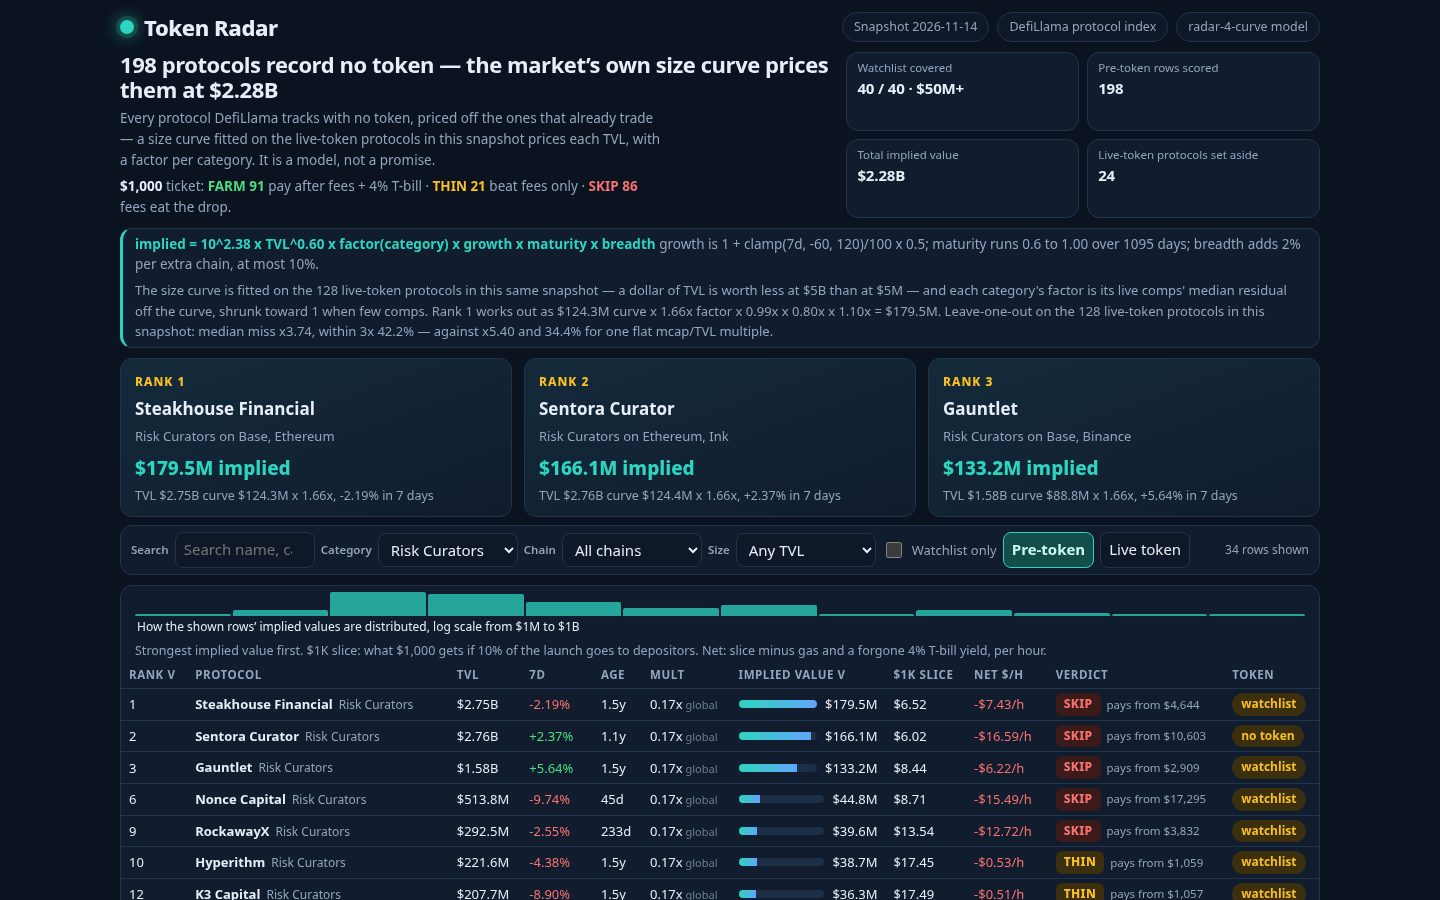
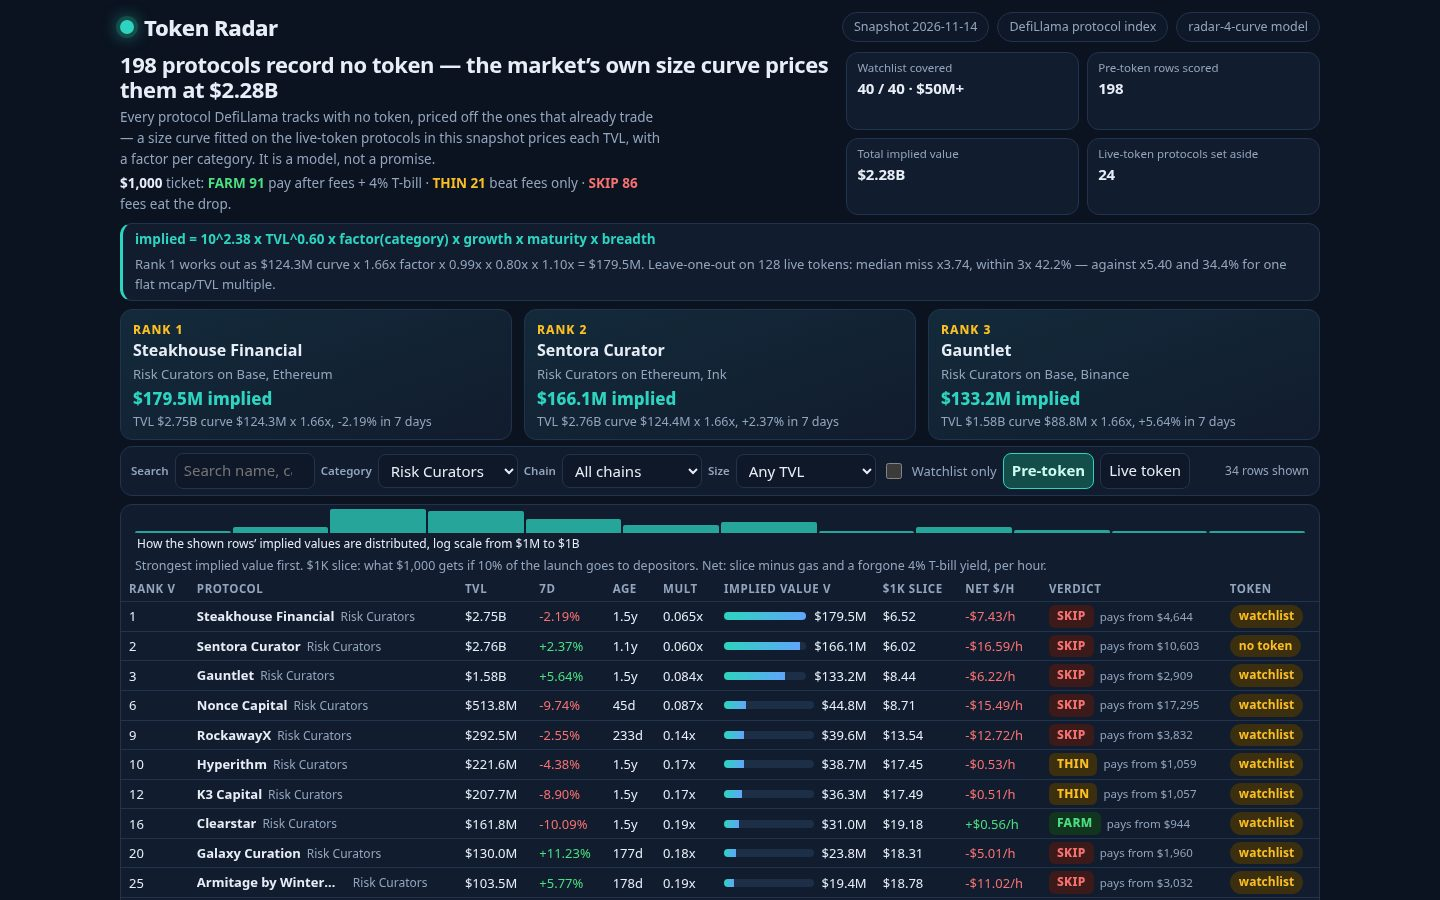
Token Radar v3 visuals (slot3-judge): compact board — live implied/TVL MULT, shorter cards, 1-line formula bar (10 rows visible)

diff --git a/dashboard/app.css b/dashboard/app.css
@@ -12,8 +12,8 @@ a{color:var(--teal)}
 .top-meta{display:flex;gap:8px;flex-wrap:wrap}
 .pill{border:1px solid var(--line);border-radius:999px;padding:4px 11px;color:var(--muted);font-size:12.5px;background:var(--panel2)}
 .lede{display:grid;grid-template-columns:1.5fr 1fr;gap:16px;padding:6px 0 2px}
-.lede h1{font-size:22px;line-height:1.15;margin:0 0 5px;letter-spacing:-.02em}
-.lede p{margin:0 0 6px;color:var(--muted);max-width:70ch;font-size:13.5px}
+.lede h1{font-size:22px;line-height:1.15;margin:0 0 4px;letter-spacing:-.02em}
+.lede p{margin:0 0 4px;color:var(--muted);max-width:70ch;font-size:13.5px}
 .lede p:last-child{margin-bottom:0}
 .lede p b{color:var(--ink)}
 .verdict-line{font-size:13px}
@@ -25,20 +25,19 @@ a{color:var(--teal)}
 .fact span{display:block;color:var(--muted);font-size:11.5px}
 .fact b{font-size:15px;letter-spacing:-.01em}
 .fact b em{font-style:normal;color:var(--teal);font-size:14px}
-.formula-bar{background:var(--panel);border:1px solid var(--line);border-left:3px solid var(--teal);border-radius:var(--radius);padding:6px 12px;margin:8px 0 2px}
+.formula-bar{background:var(--panel);border:1px solid var(--line);border-left:3px solid var(--teal);border-radius:var(--radius);padding:6px 12px;margin:6px 0 2px}
 .formula-line{font-size:13.5px;line-height:1.45}
 .formula-line b{color:var(--teal)}
-.formula-line span{color:var(--muted)}
-.formula-bar p{margin:6px 0 0;color:var(--muted);font-size:13px}
-.spot{display:grid;grid-template-columns:repeat(3,1fr);gap:12px;margin:10px 0 2px}
-.spot-card{background:linear-gradient(160deg,#132a3a,#111c2e);border:1px solid var(--line);border-radius:var(--radius);padding:10px 14px;cursor:pointer;text-align:left;color:var(--ink);font:inherit}
+.formula-bar p{margin:4px 0 0;color:var(--muted);font-size:13px}
+.spot{display:grid;grid-template-columns:repeat(3,1fr);gap:12px;margin:8px 0 2px}
+.spot-card{background:linear-gradient(160deg,#132a3a,#111c2e);border:1px solid var(--line);border-radius:var(--radius);padding:8px 12px;cursor:pointer;text-align:left;color:var(--ink);font:inherit;line-height:1.35}
 .spot-card:hover{border-color:var(--teal)}
 .spot-card .rank{color:var(--amber);font-weight:800;font-size:12px;text-transform:uppercase;letter-spacing:.08em}
-.spot-card h3{margin:4px 0 2px;font-size:17px}
+.spot-card h3{margin:2px 0 1px;font-size:16px}
 .spot-card .sub{color:var(--muted);font-size:13px}
-.spot-card .val{font-size:19px;font-weight:800;margin-top:6px;color:var(--teal)}
-.spot-card .why{color:var(--muted);font-size:12.5px;margin-top:2px}
-.controls{display:flex;gap:6px;align-items:center;flex-wrap:wrap;background:var(--panel);border:1px solid var(--line);border-radius:var(--radius);padding:6px 10px;margin:8px 0}
+.spot-card .val{font-size:17px;font-weight:800;margin-top:4px;color:var(--teal)}
+.spot-card .why{color:var(--muted);font-size:12.5px;margin-top:1px}
+.controls{display:flex;gap:6px;align-items:center;flex-wrap:wrap;background:var(--panel);border:1px solid var(--line);border-radius:var(--radius);padding:6px 10px;margin:6px 0}
 .field{display:flex;flex-direction:row;align-items:center;gap:6px}
 .field label,.field .sub{font-size:11.5px;color:var(--muted);font-weight:600;white-space:nowrap}
 .field input,.field select{background:var(--panel2);border:1px solid var(--line);color:var(--ink);border-radius:8px;padding:5px 8px;font:inherit;min-width:0}
@@ -51,11 +50,11 @@ a{color:var(--teal)}
 .check{display:flex;align-items:center;gap:7px;color:var(--muted);font-size:13px;cursor:pointer;white-space:nowrap}
 .check input{accent-color:var(--teal);width:16px;height:16px}
 .count{margin-left:auto;color:var(--muted);font-size:12px;align-self:center}
-.panel{background:var(--panel);border:1px solid var(--line);border-radius:var(--radius);margin:10px 0}
+.panel{background:var(--panel);border:1px solid var(--line);border-radius:var(--radius);margin:8px 0}
 .table-wrap{overflow-x:auto}
 table{width:100%;border-collapse:collapse;font-size:13px}
-caption{text-align:left;padding:6px 14px 2px;color:var(--muted);font-size:12.5px;line-height:1.45}
-th,td{padding:4px 8px;text-align:left;border-top:1px solid var(--line);vertical-align:middle}
+caption{text-align:left;padding:4px 14px 2px;color:var(--muted);font-size:12.5px;line-height:1.45}
+th,td{padding:3px 8px;text-align:left;border-top:1px solid var(--line);vertical-align:middle}
 thead th{border-top:0;color:var(--muted);font-size:11.5px;text-transform:uppercase;letter-spacing:.05em;white-space:nowrap}
 thead th button{background:none;border:0;color:inherit;font:inherit;cursor:pointer;padding:0;text-transform:inherit;letter-spacing:inherit}
 thead th button:hover{color:var(--teal)}
@@ -80,7 +79,7 @@ td.num{font-variant-numeric:tabular-nums;white-space:nowrap}
 .verdict-chip.skipv{background:#3d1a1a;color:var(--red)}
 .verdict .sub{color:var(--muted);font-size:11.5px;white-space:nowrap}
 .pos{color:var(--green)}.neg{color:var(--red)}
-.hist-wrap{padding:6px 14px 0}
+.hist-wrap{padding:4px 14px 0}
 .hist{display:flex;align-items:flex-end;gap:2px;height:24px}
 .hist i{flex:1;background:var(--teal);opacity:.75;border-radius:2px 2px 0 0;min-height:2px}
 .hist-label{padding:2px 2px 0;font-size:12px}

diff --git a/dashboard/app.js b/dashboard/app.js
@@ -28,6 +28,9 @@
     return Math.max(0, Math.round(days)) + 'd';
   }
   function fmtMult(n) { return (Math.round(n * 100) / 100).toFixed(2) + 'x'; }
+  // Implied value per dollar of TVL, computed live from the row: three
+  // decimals below 0.1x so 0.065x reads as 0.065x, not 0.07x.
+  function fmtRatio(n) { if (!isFinite(n)) return 'n/a'; return (n < 0.1 ? n.toFixed(3) : (Math.round(n * 100) / 100).toFixed(2)) + 'x'; }
   function round2(n) { return Math.round(n * 100) / 100; }
   function fmtMoney(n) {
     if (n === null || n === undefined || !isFinite(n)) return 'n/a';
@@ -292,7 +295,6 @@
   // the screenshots first, so the arithmetic is visible in five seconds
   // without scrolling to the model panel below the table.
   function formulaBar() {
-    var m = DATA.model;
     var top = DATA.rows[0];
     var sc = DATA.size_curve;
     var v = DATA.validation;
@@ -300,14 +302,13 @@
       ? 'Rank 1 works out as ' + fmtUsd(top.curve_usd) + ' curve x ' + fmtMult(top.category_factor) + ' factor x ' + fmtMult(top.growth_multiplier) + ' x ' + fmtMult(top.maturity_multiplier) + ' x ' + fmtMult(top.breadth_multiplier) + ' = ' + fmtUsd(top.implied_value_usd) + '.'
       : '';
     var check = v
-      ? 'Leave-one-out on the ' + v.fitted.n + ' live-token protocols in this snapshot: median miss x' + v.fitted.median_miss.toFixed(2) + ', within 3x ' + Math.round(v.fitted.within_3x * 1000) / 10 + '% — against x' + v.flat.median_miss.toFixed(2) + ' and ' + Math.round(v.flat.within_3x * 1000) / 10 + '% for one flat mcap/TVL multiple.'
+      ? 'Leave-one-out on ' + v.fitted.n + ' live tokens: median miss x' + v.fitted.median_miss.toFixed(2) + ', within 3x ' + Math.round(v.fitted.within_3x * 1000) / 10 + '% — against x' + v.flat.median_miss.toFixed(2) + ' and ' + Math.round(v.flat.within_3x * 1000) / 10 + '% for one flat mcap/TVL multiple.'
       : '';
     return el('section', { class: 'formula-bar', 'aria-label': 'How implied value is computed' },
       el('div', { class: 'formula-line' },
-        el('b', { text: 'implied = 10^' + sc.intercept.toFixed(2) + ' x TVL^' + sc.slope.toFixed(2) + ' x factor(category) x growth x maturity x breadth' }),
-        el('span', { text: ' growth is 1 + clamp(7d, ' + m.growth_floor + ', ' + m.growth_cap + ')/100 x ' + m.growth_weight + '; maturity runs ' + m.maturity_floor + ' to 1.00 over ' + m.maturity_days + ' days; breadth adds 2% per extra chain, at most 10%.' })
+        el('b', { text: 'implied = 10^' + sc.intercept.toFixed(2) + ' x TVL^' + sc.slope.toFixed(2) + ' x factor(category) x growth x maturity x breadth' })
       ),
-      el('p', { text: 'The size curve is fitted on the ' + sc.live_count + ' live-token protocols in this same snapshot — a dollar of TVL is worth less at $5B than at $5M — and each category\'s factor is its live comps\' median residual off the curve, shrunk toward 1 when few comps. ' + example + ' ' + check })
+      el('p', { text: example + ' ' + check })
     );
   }
 
@@ -439,7 +440,7 @@
         el('td', { class: 'num', text: fmtUsd(r.tvl_usd) }),
         el('td', { class: 'num ' + growthClass, text: growth }),
         el('td', { class: 'num', text: fmtAge(r.age_days) }),
-        el('td', { class: 'num' }, el('span', { text: fmtMult(r.comp_multiple) }), r.comp_used_global ? el('span', { class: 'sub global', text: ' global' }) : null),
+        el('td', { class: 'num', title: 'Flat baseline ' + fmtMult(r.comp_multiple) + (r.comp_used_global ? ' (global median)' : ' (category median)') }, el('span', { text: fmtRatio(r.tvl_usd ? r.implied_value_usd / r.tvl_usd : 0) })),
         el('td', null, el('div', { class: 'implied' },
           el('div', { class: 'bar', 'aria-hidden': 'true' }, el('i', { style: 'width:' + Math.max(3, Math.round((r.implied_value_usd / max) * 100)) + '%' }), range),
           el('span', { class: 'num', text: fmtUsd(r.implied_value_usd) })
